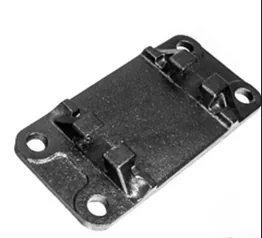
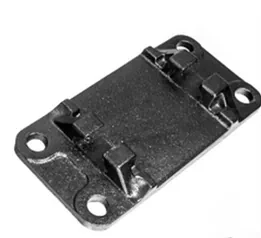
Catálogo: datos de presentación, medidas reales y recortes de fotos
Claude-Session: https://claude.ai/code/session_01Gqpex7kYZqbBKBvLMzMRUs

diff --git a/src/constants/catalogoExtra.ts b/src/constants/catalogoExtra.ts
@@ -1,0 +1,152 @@
+import type { Producto } from "./productos";
+import MEDIDAS from "./medidasImagenes.json";
+
+// Catalogue presentation data that does not belong in productos.ts (owned by
+// the content side): what the site may claim about origin, how each pictured
+// model is called, and which photos are cleaner crops. Everything here is
+// optional; a SKU without an entry renders exactly as before.
+
+export type OrigenVisible = "fabricacion-propia" | "suministro";
+// "par" or "juego" only once GAVICOM confirms how a reference is sold;
+// until then every line is quoted per unit.
+export type Unidad = "unidad" | "par" | "juego";
+
+export interface VarianteExtra {
+  nombre?: string;
+  // A model photo kept only as a reference of what can be quoted.
+  referencia?: boolean;
+  // Not shown at all until GAVICOM confirms it (see the notes per SKU).
+  ocultar?: boolean;
+}
+
+export interface ExtraProducto {
+  origenVisible?: OrigenVisible;
+  unidad?: Unidad;
+  // Keyed by the variant's image file, which is stable even if productos.ts
+  // reorders its variants.
+  variantes?: Record<string, VarianteExtra>;
+  // A cleaner crop of the product (file in /images/productos).
+  imagen?: string;
+  // The only picture is a brochure page with text panels: the card shows an
+  // honest "photo on request" tile instead of a page that reads as a flyer.
+  fotoFolleto?: boolean;
+}
+
+// Models whose sign text is in English: they look like imported stock photos
+// and nothing confirms GAVICOM makes them. Hidden until GAVICOM confirms.
+const OCULTA: VarianteExtra = { ocultar: true };
+
+export const CATALOGO_EXTRA: Record<string, ExtraProducto> = {
+  // The only reference whose own description documents manufacture in
+  // Colombia (reverse engineering, own drawings, local foundry).
+  "GVC-AK-EA75": { origenVisible: "fabricacion-propia" },
+
+  "GVC-SF-001": {
+    variantes: {
+      "senializacion-ferroviaria-2.webp": OCULTA, // STOP MEN AT WORK
+      "senializacion-ferroviaria-3.webp": OCULTA, // STOP
+      "senializacion-ferroviaria-4.webp": OCULTA, // DERAIL
+      "senializacion-ferroviaria-5.webp": OCULTA, // STOP MEN AT WORK
+      "senializacion-ferroviaria-6.webp": OCULTA, // SAFETY FIRST
+      "senializacion-ferroviaria-8.webp": OCULTA, // SWITCH IS LINED FOR OTHER TRACK
+      "senializacion-ferroviaria-9.webp": OCULTA, // CHOCK
+      "senializacion-ferroviaria-10.webp": OCULTA, // CHOCK
+      "senializacion-ferroviaria-11.webp": OCULTA, // CHECK SWITCH
+      "senializacion-ferroviaria-18.webp": OCULTA, // DERAIL
+    },
+  },
+  "GVC-CR-001": {
+    variantes: {
+      "cunas-rueda-bandera-2.webp": OCULTA, // CHOCK YOUR WHEELS
+      "cunas-rueda-bandera-3.webp": OCULTA, // CHOCK
+    },
+  },
+  "GVC-SV-001": {
+    variantes: {
+      // Carries a stock-photo watermark: not GAVICOM's own picture.
+      "senializacion-vial-4.webp": OCULTA,
+    },
+  },
+
+  // Brochure pages: product cropped out of the page where it sits clear of
+  // the text panel (scripts/recortar-imagenes.mjs) ...
+  "GVC-FIJ-001": { imagen: "saca-clip-tipo-a-recorte.webp" },
+  "GVC-TM-07": { imagen: "suministro_pag11-recorte.webp" },
+  "GVC-D-01": { imagen: "suministro_pag3-recorte.webp" },
+  // ... and where it overlaps the panel or a magnified inset, no crop.
+  "GVC-FIJ-003": { fotoFolleto: true },
+  "GVC-MAN-003": { fotoFolleto: true },
+};
+
+export function extraDe(sku: string): ExtraProducto {
+  return CATALOGO_EXTRA[sku] ?? {};
+}
+
+export function origenVisible(sku: string): OrigenVisible {
+  return extraDe(sku).origenVisible ?? "suministro";
+}
+
+export function esFabricacionPropia(sku: string): boolean {
+  return origenVisible(sku) === "fabricacion-propia";
+}
+
+export function unidadDe(sku: string): Unidad {
+  return extraDe(sku).unidad ?? "unidad";
+}
+
+export function tieneFotoFolleto(sku: string): boolean {
+  return Boolean(extraDe(sku).fotoFolleto);
+}
+
+const MEDIDAS_IMAGENES: Record<string, number[] | undefined> = MEDIDAS;
+
+export interface ImagenCatalogo {
+  src: string;
+  archivo: string;
+  ancho: number;
+  alto: number;
+}
+
+function imagen(archivo: string): ImagenCatalogo {
+  // 800 x 800 is only a fallback for a photo added without re-running
+  // scripts/medir-imagenes.mjs; object-contain keeps it undistorted.
+  const [ancho, alto] = MEDIDAS_IMAGENES[archivo] ?? [800, 800];
+  return { src: `/images/productos/${archivo}`, archivo, ancho, alto };
+}
+
+// The picture a card or a product page leads with: the clean crop when there
+// is one, null when there is no photo or only a brochure page.
+export function imagenPrincipal(p: Pick<Producto, "sku" | "imagen">): ImagenCatalogo | null {
+  const extra = extraDe(p.sku);
+  if (extra.fotoFolleto) return null;
+  const archivo = extra.imagen ?? p.imagen;
+  return archivo ? imagen(archivo) : null;
+}
+
+export interface VistaFicha extends ImagenCatalogo {
+  // "Modelo 7" (the number in the source file, so it never shifts when a
+  // model is hidden or unhidden) or the name given above / in productos.ts.
+  nombre: string;
+  referencia: boolean;
+}
+
+// Pictures for the product page gallery: main photo first, then every model
+// that is not hidden and not the main photo again.
+export function vistasFicha(p: Producto): VistaFicha[] {
+  const extra = extraDe(p.sku);
+  const principal = imagenPrincipal(p);
+  const variantes = p.variantes ?? [];
+  const vistas: VistaFicha[] = [];
+  if (principal) {
+    const original = variantes.findIndex((v) => v.imagen === p.imagen);
+    const nombreVar = original >= 0 ? (extra.variantes?.[variantes[original].imagen]?.nombre ?? variantes[original].nombre) : undefined;
+    vistas.push({ ...principal, nombre: nombreVar ?? (variantes.length ? `Modelo ${original >= 0 ? original + 1 : 1}` : p.nombre), referencia: false });
+  }
+  variantes.forEach((v, i) => {
+    if (v.imagen === p.imagen || v.imagen === principal?.archivo) return;
+    const ve = extra.variantes?.[v.imagen];
+    if (ve?.ocultar) return;
+    vistas.push({ ...imagen(v.imagen), nombre: ve?.nombre ?? v.nombre ?? `Modelo ${i + 1}`, referencia: Boolean(ve?.referencia) });
+  });
+  return vistas;
+}
